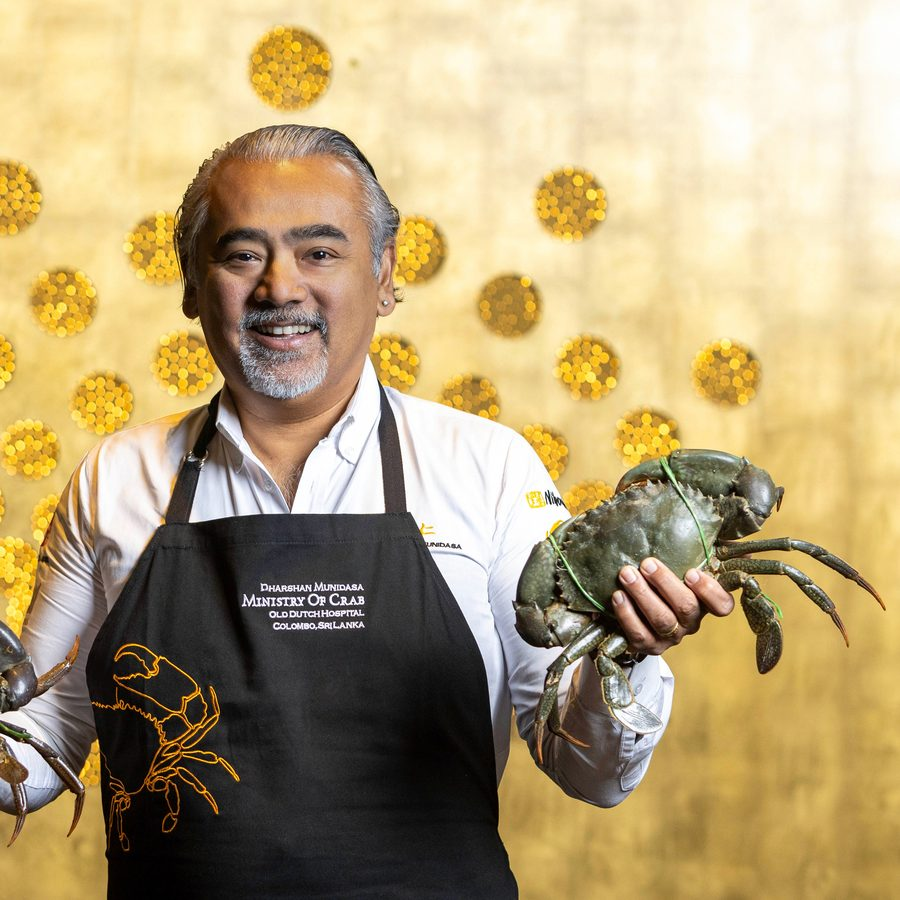
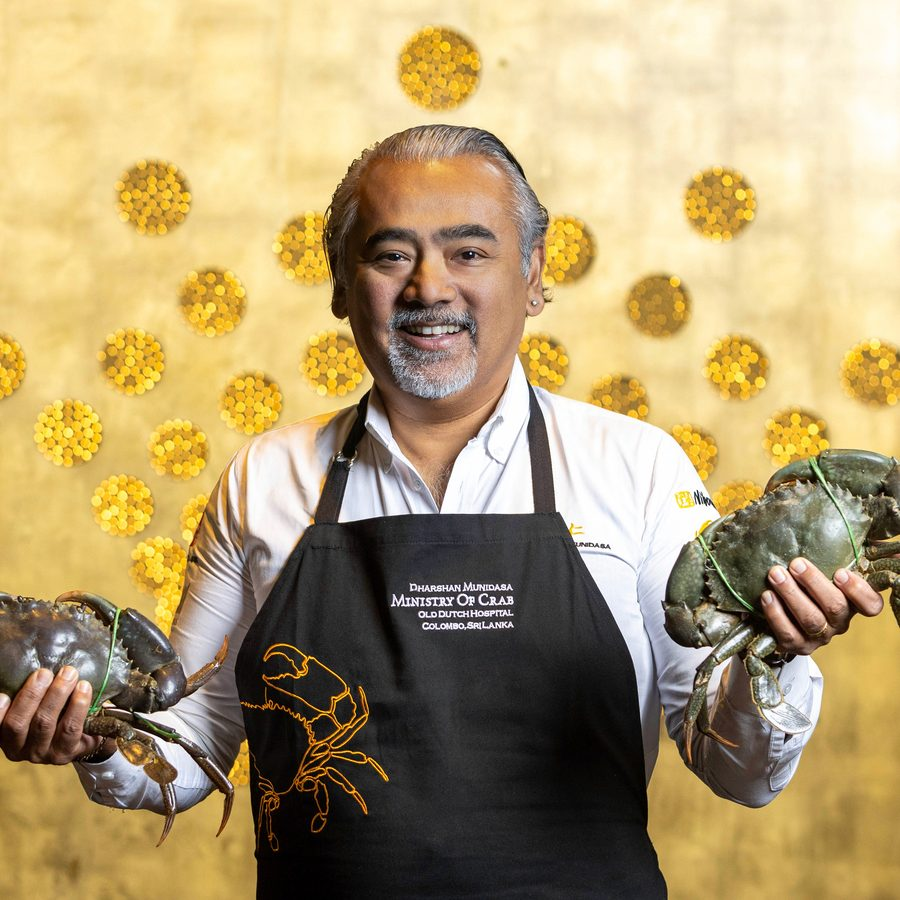
Portfolio: center Ministry of Crab chef, zoom out Matrix tile
b-crab-2 recropped so the chef is centered with both crabs in frame;
b-matrix-6 widened for more headroom. ?v=2 on both.

diff --git a/portfolio.html b/portfolio.html
@@ -124,7 +124,7 @@
         </article>
         <article class="lx-plate">
           <div class="lx-plate-img lx-plate-img-small">
-            <img src="assets/img/b-crab-2.jpg" srcset="assets/img/b-crab-2.webp" alt="Chef holding two mud crabs against a gold backdrop" loading="lazy">
+            <img src="assets/img/b-crab-2.jpg?v=2" srcset="assets/img/b-crab-2.webp?v=2" alt="Chef holding two mud crabs against a gold backdrop" loading="lazy">
           </div>
           <div class="lx-plate-meta">
             <h3 class="lx-plate-name">Ministry of Crab</h3>
@@ -132,7 +132,7 @@
         </article>
         <article class="lx-plate">
           <div class="lx-plate-img lx-plate-img-small">
-            <img src="assets/img/b-matrix-6.jpg" srcset="assets/img/b-matrix-6.webp" alt="Editorial portrait in a yellow floral jacket on a yellow background" loading="lazy">
+            <img src="assets/img/b-matrix-6.jpg?v=2" srcset="assets/img/b-matrix-6.webp?v=2" alt="Editorial portrait in a yellow floral jacket on a yellow background" loading="lazy">
           </div>
           <div class="lx-plate-meta">
             <h3 class="lx-plate-name">Matrix</h3>
